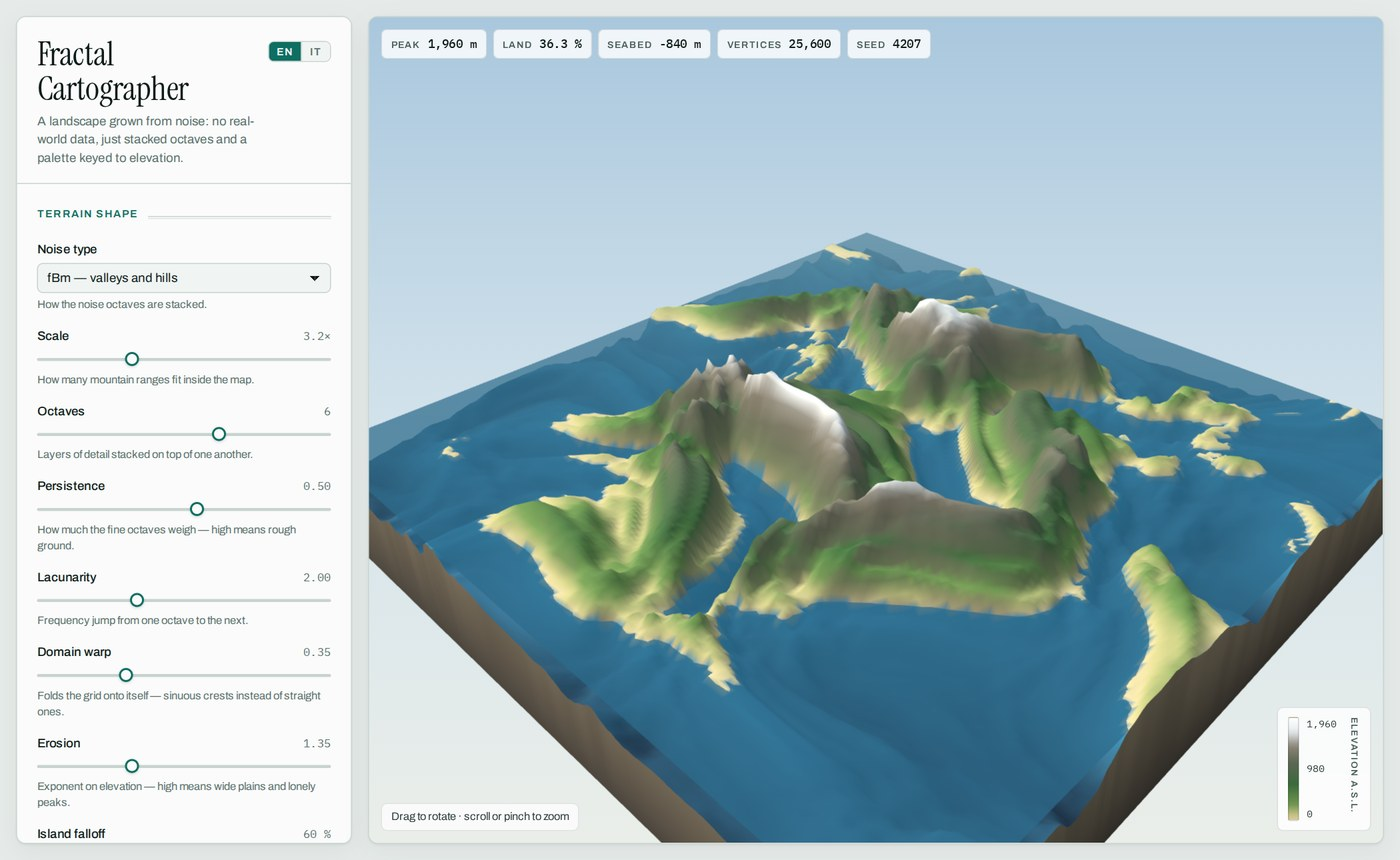
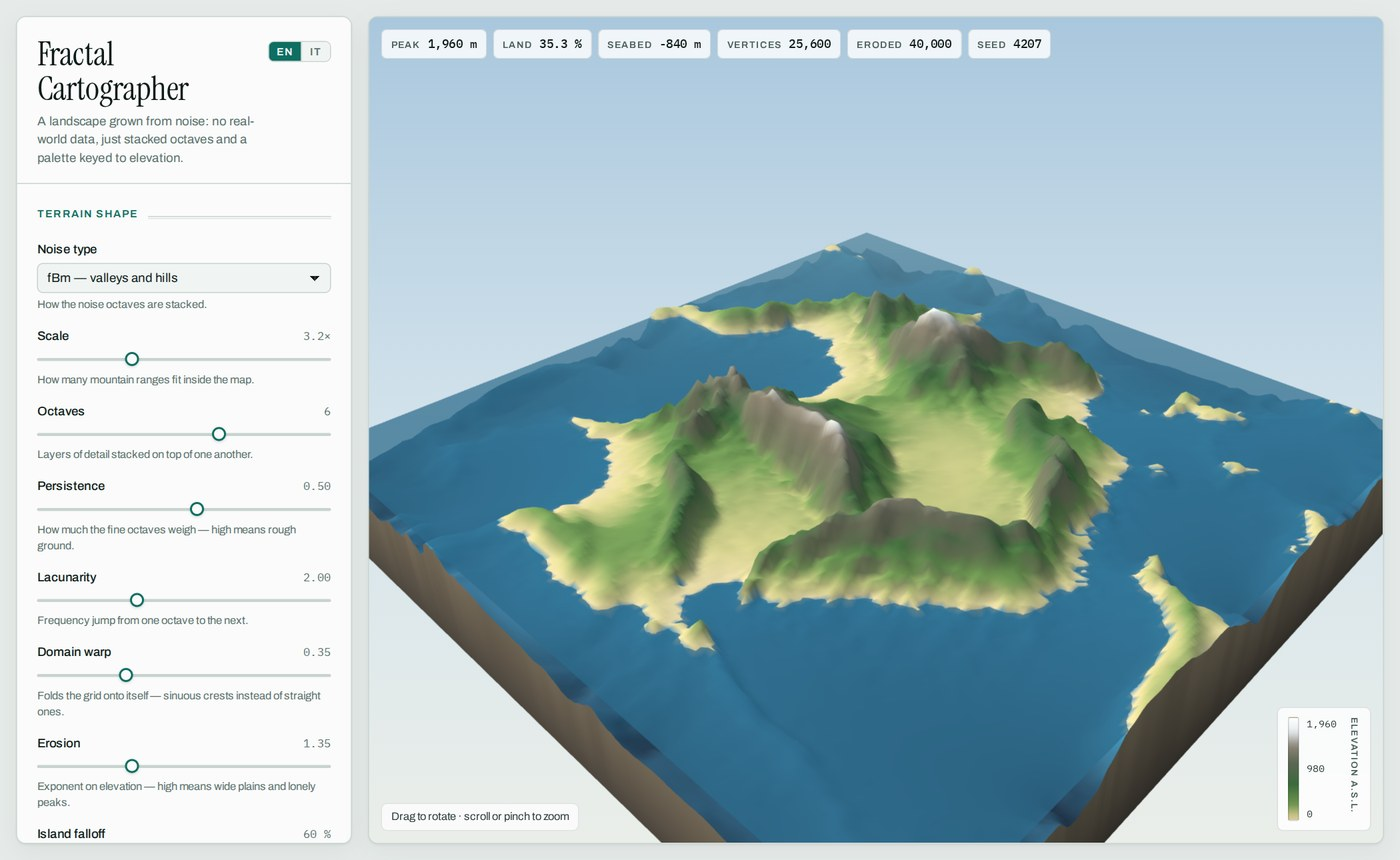
Add hydraulic erosion: droplet simulation with live progress and undo

diff --git a/index.html b/index.html
@@ -168,6 +168,12 @@ button:focus-visible{ outline:2px solid var(--accent); outline-offset:1px; }
 button.primary{ background:var(--accent); border-color:var(--accent); color:var(--on-accent); }
 button.primary:hover{ filter:brightness(1.08); }
 .btn-row{ display:grid; grid-template-columns:1fr 1fr; gap:8px; margin-top:16px; }
+button:disabled{ opacity:.55; cursor:default; }
+button:disabled:hover{ border-color:var(--edge); color:var(--ink); filter:none; }
+.progress{
+  height:3px; border-radius:2px; background:var(--edge); overflow:hidden; margin-top:10px;
+}
+.progress-fill{ height:100%; width:0%; background:var(--accent); }
 
 .colophon{
   margin-top:auto; padding:16px 20px; border-top:1px solid var(--edge);
@@ -280,8 +286,12 @@ button.primary:hover{ filter:brightness(1.08); }
       hintBar: "Drag to rotate · scroll or pinch to zoom",
       legendCap: "elevation a.s.l.",
       fallback: "The 3D engine could not be loaded. Reload the page to try again.",
-      groups: { shape: "Terrain shape", water: "Elevation and water", render: "Rendering", seed: "Seed" },
-      chips: { peak: "Peak", land: "Land", seabed: "Seabed", vertices: "Vertices", seed: "Seed" },
+      groups: { shape: "Terrain shape", water: "Elevation and water", erosion: "Hydraulic erosion",
+                render: "Rendering", seed: "Seed" },
+      chips: { peak: "Peak", land: "Land", seabed: "Seabed", vertices: "Vertices", seed: "Seed",
+               eroded: "Eroded" },
+      erode: "Erode", eroding: "Eroding…", restore: "Undo erosion",
+      erodeHint: "Rain falls, carries sediment downhill and drops it where the slope eases. Run it again to carve deeper; changing any terrain parameter starts from bare noise.",
       seedAria: "Generator seed",
       seedHint: "The same number rebuilds the same world, every time.",
       roll: "Roll", newWorld: "New world", reset: "Reset",
@@ -299,6 +309,10 @@ button.primary:hover{ filter:brightness(1.08); }
         altitude: { label: "Total relief", hint: "Drop between the lowest point and the summit." },
         sea: { label: "Sea level", hint: "Where the water stops, as a fraction of total relief." },
         snow: { label: "Snow line", hint: "Where the top band of the palette begins." },
+        droplets: { label: "Droplets", hint: "How many raindrops to simulate — a few seconds per 40,000. Finer grids hold finer channels." },
+        erodeRate: { label: "Erosion rate", hint: "How eagerly a droplet digs into the ground beneath it." },
+        depositRate: { label: "Deposition rate", hint: "How readily it drops its load where the slope eases." },
+        inertia: { label: "Inertia", hint: "How much a droplet keeps its heading — high values meander, low ones follow the steepest line." },
         palette: { label: "Palette" },
         res: { label: "Grid resolution",
           options: ["96 × 96 — light", "128 × 128", "160 × 160 — recommended", "200 × 200", "256 × 256 — heavy"] },
@@ -314,8 +328,12 @@ button.primary:hover{ filter:brightness(1.08); }
       hintBar: "Trascina per ruotare · rotella o pizzico per lo zoom",
       legendCap: "quota s.l.m.",
       fallback: "Non è stato possibile caricare il motore 3D. Ricarica la pagina per riprovare.",
-      groups: { shape: "Forma del rilievo", water: "Quote e acqua", render: "Resa", seed: "Seme" },
-      chips: { peak: "Vetta", land: "Emerso", seabed: "Fondale", vertices: "Vertici", seed: "Seme" },
+      groups: { shape: "Forma del rilievo", water: "Quote e acqua", erosion: "Erosione idraulica",
+                render: "Resa", seed: "Seme" },
+      chips: { peak: "Vetta", land: "Emerso", seabed: "Fondale", vertices: "Vertici", seed: "Seme",
+               eroded: "Eroso" },
+      erode: "Erodi", eroding: "Erosione…", restore: "Annulla erosione",
+      erodeHint: "La pioggia cade, trascina sedimento a valle e lo deposita dove la pendenza cala. Premi di nuovo per scavare più a fondo; toccare un parametro del rilievo riparte dal rumore puro.",
       seedAria: "Seme del generatore",
       seedHint: "Lo stesso numero ricostruisce lo stesso mondo, sempre.",
       roll: "Sorteggia", newWorld: "Nuovo mondo", reset: "Ripristina",
@@ -333,6 +351,10 @@ button.primary:hover{ filter:brightness(1.08); }
         altitude: { label: "Rilievo totale", hint: "Dislivello fra il punto più basso e la vetta." },
         sea: { label: "Livello del mare", hint: "Quota a cui si ferma l'acqua, in frazione del rilievo." },
         snow: { label: "Linea delle nevi", hint: "Dove comincia la fascia più alta della tavolozza." },
+        droplets: { label: "Gocce", hint: "Quante gocce di pioggia simulare: qualche secondo ogni 40.000. Griglie più fini tengono solchi più fini." },
+        erodeRate: { label: "Velocità di erosione", hint: "Con quanta foga una goccia scava il terreno sotto di sé." },
+        depositRate: { label: "Velocità di deposito", hint: "Con quanta facilità molla il carico dove la pendenza cala." },
+        inertia: { label: "Inerzia", hint: "Quanto una goccia mantiene la rotta: valori alti serpeggiano, bassi seguono la massima pendenza." },
         palette: { label: "Tavolozza" },
         res: { label: "Risoluzione della griglia",
           options: ["96 × 96 — leggera", "128 × 128", "160 × 160 — consigliata", "200 × 200", "256 × 256 — pesante"] },
@@ -405,6 +427,10 @@ button.primary:hover{ filter:brightness(1.08); }
     altitude: 2800,
     sea: 0.30,
     snow: 0.72,
+    droplets: 40000,
+    erodeRate: 0.15,
+    depositRate: 0.20,
+    inertia: 0.05,
     palette: "alpino",
     res: 160,
     contours: false,
@@ -489,7 +515,8 @@ button.primary:hover{ filter:brightness(1.08); }
   }
 
   /* ── elevation field ────────────────────────────────── */
-  var field = { n: 0, h: null, emerged: 0 };
+  var field = { n: 0, h: null, base: null, emerged: 0, eroded: 0 };
+  var erosionToken = 0;
 
   function computeField() {
     var N = state.res;
@@ -535,6 +562,146 @@ button.primary:hover{ filter:brightness(1.08); }
     var span = Math.max(1e-6, hi - lo);
     for (var k = 0; k < h.length; k++) h[k] = (h[k] - lo) / span;
     field.n = N; field.h = h;
+    field.base = h.slice();   // pristine noise, kept so erosion can be undone
+    field.eroded = 0;
+    erosionToken++;           // any run in flight is now working on a dead array
+  }
+
+  /* ── hydraulic erosion ──────────────────────────────────────
+     Particle model: a droplet walks downhill carrying sediment, digging where
+     it accelerates and dropping its load where the slope eases. No river is
+     ever drawn — the drainage network is what a few hundred thousand of these
+     leave behind. */
+
+  function makeBrush(radius, N) {
+    var off = [], wt = [], sum = 0, dx, dy, d, w;
+    for (dy = -radius; dy <= radius; dy++) {
+      for (dx = -radius; dx <= radius; dx++) {
+        d = Math.sqrt(dx * dx + dy * dy);
+        if (d > radius) continue;
+        w = radius > 0 ? 1 - d / radius : 1;
+        off.push(dy * N + dx); wt.push(w); sum += w;
+      }
+    }
+    for (var i = 0; i < wt.length; i++) wt[i] /= sum;    // weights total 1
+    // droplets stay `margin` cells from the edge, so the brush never runs off the grid
+    return { off: Int32Array.from(off), w: Float32Array.from(wt), margin: radius + 1 };
+  }
+
+  var _h = 0, _gx = 0, _gy = 0;
+  function sampleField(h, N, x, y) {
+    var xi = x | 0, yi = y | 0;
+    if (xi > N - 2) xi = N - 2; if (xi < 0) xi = 0;
+    if (yi > N - 2) yi = N - 2; if (yi < 0) yi = 0;
+    var u = x - xi, v = y - yi, i00 = yi * N + xi;
+    var h00 = h[i00], h10 = h[i00 + 1], h01 = h[i00 + N], h11 = h[i00 + N + 1];
+    _gx = (h10 - h00) * (1 - v) + (h11 - h01) * v;
+    _gy = (h01 - h00) * (1 - u) + (h11 - h10) * u;
+    _h = h00 * (1 - u) * (1 - v) + h10 * u * (1 - v) + h01 * (1 - u) * v + h11 * u * v;
+  }
+
+  function droplet(h, N, P, brush, rnd) {
+    var m = brush.margin, span = N - 1 - 2 * m;
+    var posX = m + rnd() * span, posY = m + rnd() * span;
+    var dirX = 0, dirY = 0, speed = 1, water = 1, sediment = 0;
+    for (var life = 0; life < P.lifetime; life++) {
+      var nodeX = posX | 0, nodeY = posY | 0;
+      var offX = posX - nodeX, offY = posY - nodeY;
+      sampleField(h, N, posX, posY);
+      var hOld = _h, gx = _gx, gy = _gy;
+
+      dirX = dirX * P.inertia - gx * (1 - P.inertia);
+      dirY = dirY * P.inertia - gy * (1 - P.inertia);
+      var len = Math.sqrt(dirX * dirX + dirY * dirY);
+      if (len < 1e-8) break;                       // sitting in a flat pit
+      dirX /= len; dirY /= len;
+      posX += dirX; posY += dirY;
+      if (posX < m || posX > N - 1 - m || posY < m || posY > N - 1 - m) break;
+
+      sampleField(h, N, posX, posY);
+      var dh = _h - hOld;
+      var capacity = Math.max(-dh * speed * water * P.capacity, P.minSlope);
+
+      if (sediment > capacity || dh > 0) {
+        // slowing down, or climbing: drop the excess on the four nodes it left
+        var drop = (dh > 0) ? Math.min(dh, sediment) : (sediment - capacity) * P.deposit;
+        sediment -= drop;
+        var i0 = nodeY * N + nodeX;
+        h[i0]         += drop * (1 - offX) * (1 - offY);
+        h[i0 + 1]     += drop * offX * (1 - offY);
+        h[i0 + N]     += drop * (1 - offX) * offY;
+        h[i0 + N + 1] += drop * offX * offY;
+      } else {
+        // room to carry more: dig, spread over the brush so no single spike forms
+        var dig = Math.min((capacity - sediment) * P.erode, -dh);
+        var base = nodeY * N + nodeX, boff = brush.off, bw = brush.w;
+        for (var b = 0; b < boff.length; b++) {
+          var bi = base + boff[b];
+          var take = dig * bw[b];
+          if (take > h[bi]) take = h[bi];          // bedrock at the original low point
+          h[bi] -= take;
+          sediment += take;
+        }
+      }
+      speed = Math.sqrt(Math.max(0, speed * speed + dh * P.gravity));
+      water *= (1 - P.evaporate);
+    }
+  }
+
+  var eroding = false;
+
+  function runErosion() {
+    var total = state.droplets | 0;
+    if (eroding || !field.h || total <= 0) return;
+
+    var myToken = erosionToken;
+    var P_RADIUS = 3;
+    var h = field.h, N = field.n;
+    var brush = makeBrush(P_RADIUS, N);
+    var rnd = mulberry32((state.seed ^ 0x9E3779B9) >>> 0);
+    var P = {
+      inertia: state.inertia, capacity: 4, minSlope: 0.003,
+      deposit: state.depositRate, erode: state.erodeRate,
+      gravity: 4, evaporate: 0.012, lifetime: 30
+    };
+
+    var btn = document.getElementById("btn-erode");
+    var bar = document.getElementById("erode-progress");
+    var fill = document.getElementById("erode-fill");
+    eroding = true;
+    btn.disabled = true;
+    btn.textContent = L.eroding;
+    bar.hidden = false;
+    fill.style.width = "0%";
+
+    var done = 0, chunks = 0;
+
+    function finish(completed) {
+      eroding = false;
+      btn.disabled = false;
+      btn.textContent = L.erode;
+      bar.hidden = true;
+      if (completed) { field.eroded += total; needsBuild = true; }
+    }
+
+    (function chunk() {
+      if (myToken !== erosionToken) { finish(false); return; }   // terrain was regenerated
+      var t0 = performance.now();
+      while (done < total && performance.now() - t0 < 12) {
+        for (var i = 0; i < 256 && done < total; i++) { droplet(h, N, P, brush, rnd); done++; }
+      }
+      fill.style.width = (done / total * 100).toFixed(1) + "%";
+      if (++chunks % 6 === 0) needsBuild = true;                 // watch the valleys appear
+      if (done < total) requestAnimationFrame(chunk);
+      else finish(true);
+    })();
+  }
+
+  function restoreTerrain() {
+    if (!field.base || eroding) return;
+    field.h.set(field.base);
+    field.eroded = 0;
+    needsBuild = true;
   }
 
   /* ── three.js ───────────────────────────────────────── */
@@ -821,6 +988,7 @@ button.primary:hover{ filter:brightness(1.08); }
       [L.chips.vertices, nf.format(field.n * field.n)],
       [L.chips.seed, String(state.seed)]
     ];
+    if (field.eroded > 0) chips.splice(4, 0, [L.chips.eroded, nf.format(field.eroded)]);
     document.getElementById("chips").innerHTML = chips.map(function (c) {
       return '<div class="chip"><span class="k">' + c[0] + '</span><span class="v">' + c[1] + "</span></div>";
     }).join("");
@@ -878,6 +1046,12 @@ button.primary:hover{ filter:brightness(1.08); }
       { k: "sea", type: "range", min: 0, max: 0.75, step: 0.005, fmt: function (v) { return Math.round(v * 100) + " %"; } },
       { k: "snow", type: "range", min: 0.3, max: 1, step: 0.01, fmt: function (v) { return Math.round(v * 100) + " %"; } }
     ] },
+    { title: "erosion", items: [
+      { k: "droplets", type: "range", min: 10000, max: 200000, step: 10000, fmt: function (v) { return nf.format(v); } },
+      { k: "erodeRate", type: "range", min: 0.05, max: 0.8, step: 0.01, fmt: function (v) { return v.toFixed(2); } },
+      { k: "depositRate", type: "range", min: 0.05, max: 0.8, step: 0.01, fmt: function (v) { return v.toFixed(2); } },
+      { k: "inertia", type: "range", min: 0, max: 0.6, step: 0.01, fmt: function (v) { return v.toFixed(2); } }
+    ], custom: erosionControls },
     { title: "render", items: [
       { k: "palette", type: "select", values: Object.keys(PALETTES), labels: "palettes" },
       { k: "res", type: "select", values: ["96", "128", "160", "200", "256"], parse: Number },
@@ -885,6 +1059,13 @@ button.primary:hover{ filter:brightness(1.08); }
       { k: "spin", type: "check" }
     ] }
   ];
+
+  function erosionControls() {
+    return '<div class="btn-row"><button type="button" class="primary" id="btn-erode">' + L.erode + "</button>" +
+      '<button type="button" id="btn-restore">' + L.restore + "</button></div>" +
+      '<div class="progress" id="erode-progress" hidden><div class="progress-fill" id="erode-fill"></div></div>' +
+      '<div class="hint" style="margin-top:10px">' + L.erodeHint + "</div>";
+  }
 
   function optionLabel(it, value, index) {
     if (it.labels) return L[it.labels][value];
@@ -916,6 +1097,7 @@ button.primary:hover{ filter:brightness(1.08); }
             (state[it.k] ? " checked" : "") + '><span>' + s.label + "</span></label>";
         }
       });
+      if (g.custom) html += g.custom();
       html += "</section>";
     });
 
@@ -950,6 +1132,8 @@ button.primary:hover{ filter:brightness(1.08); }
       var v = parseInt(this.value, 10);
       if (!isNaN(v)) { state.seed = v; schedule(true); }
     });
+    document.getElementById("btn-erode").addEventListener("click", runErosion);
+    document.getElementById("btn-restore").addEventListener("click", restoreTerrain);
     document.getElementById("btn-dice").addEventListener("click", newSeed);
     document.getElementById("btn-new").addEventListener("click", newSeed);
     document.getElementById("btn-reset").addEventListener("click", function () {

diff --git a/README.md b/README.md
@@ -21,12 +21,15 @@ double-click it.
 - **A real sea level**, with a seabed ramp below it and a translucent water plane on top.
 - **Contour lines** every 200 m, drawn at constant apparent width by dividing by the local gradient.
 - **A solid block**, not a floating sheet: the terrain sits on a plinth with banded strata down the sides.
+- **Hydraulic erosion** — tens of thousands of simulated raindrops carve rills into the slopes,
+  sharpen the ridgelines and lay sediment fans along the coast. Runs on demand, with a progress bar,
+  and can be undone.
 - **Deterministic seeds** — the same number always rebuilds the same world.
 - **Bilingual UI** — English and Italian, switchable from the header, remembered between visits.
 
 ## How it works
 
-The whole thing is one 1,050-line HTML file — roughly 780 lines of plain JavaScript, 225 of CSS, and
+The whole thing is one 1,239-line HTML file — roughly 960 lines of plain JavaScript, 232 of CSS, and
 [three.js](https://threejs.org/) from a CDN for rendering.
 
 1. **Noise.** A 2D simplex noise function is built from a permutation table shuffled by a
@@ -41,7 +44,16 @@ The whole thing is one 1,050-line HTML file — roughly 780 lines of plain JavaS
 5. **Colouring.** Above sea level the normalised height indexes a colour ramp, remapped so the top
    band starts exactly at the chosen snow line; below it, a separate seabed ramp. The local gradient
    blends in rock on steep slopes and darkens the contour bands.
-6. **Mesh.** Positions and vertex colours are written into pre-allocated typed arrays and reuploaded
+6. **Erosion** (optional, on demand). A droplet is dropped on a random cell carrying direction,
+   speed, water and sediment. At each step it reads the interpolated height and gradient, turns
+   downhill — blending the new direction with its old one, which is what makes valleys meander
+   instead of zig-zag — and moves one cell. Its carrying capacity follows the slope it just
+   descended: below capacity it digs, spreading the bite over a weighted disc so no single-cell
+   spike forms; above it, or when climbing, it drops the excess. Nothing in the code draws a river —
+   the drainage pattern is what tens of thousands of these leave behind. The work is sliced into
+   12 ms slices across animation frames, so the page stays responsive and the terrain visibly
+   changes while it runs.
+7. **Mesh.** Positions and vertex colours are written into pre-allocated typed arrays and reuploaded
    in place, so dragging a slider does not reallocate a single buffer. Colours are converted from
    sRGB to linear because the renderer works in linear space.
 
@@ -62,6 +74,10 @@ The whole thing is one 1,050-line HTML file — roughly 780 lines of plain JavaS
 | Snow line | Where the top band of the palette begins |
 | Palette | Colour ramps, sky, sun and water for the whole scene |
 | Grid resolution | 96² to 256² vertices — raise it for detail, lower it for speed |
+| Droplets | How many raindrops the erosion pass simulates — a few seconds per 40,000 |
+| Erosion rate | How eagerly a droplet digs into the ground beneath it |
+| Deposition rate | How readily it drops its load where the slope eases |
+| Inertia | How much a droplet keeps its heading; high values meander, low ones take the steepest line |
 
 ## Running it
 
@@ -84,8 +100,8 @@ one finger orbits, two fingers pinch to zoom.
 
 ## What's next
 
-See [ROADMAP.md](ROADMAP.md). The big one is hydraulic erosion — simulated rainfall carving V-shaped
-valleys and depositing sediment downstream.
+See [ROADMAP.md](ROADMAP.md). Next up: thermal erosion for scree slopes, rivers drawn from droplet
+flow accumulation, and parameter permalinks so a landscape can be shared as a URL.
 
 ## Licence
 

diff --git a/ROADMAP.md b/ROADMAP.md
@@ -3,22 +3,24 @@
 Ideas in rough order of how much they would change the result. Nothing here is committed — it is a
 list of things worth building, not a schedule.
 
-## Hydraulic erosion
+## Thermal erosion
 
-The single biggest gain in realism. Drop droplets on the heightmap, let each one carry sediment
-downhill, erode where it accelerates and deposit where it slows. Fractal noise gives mountains that
-are statistically plausible but hydrologically wrong: no drainage network, no V-shaped valleys, no
-alluvial fans. A few hundred thousand droplets fix all three.
-
-- Particle-based erosion pass after the noise stage, before normalisation.
-- Run it in a Web Worker so the UI keeps responding; show a progress bar.
-- Expose droplet count, inertia, capacity and evaporation as an advanced group.
+Four lines next to the hydraulic pass, and a different kind of realism: any slope steeper than a
+talus angle sheds material to its lower neighbours. Rounds off the spires the noise leaves behind
+and piles scree at the foot of cliffs. Cheap enough to run to equilibrium.
 
 ## Rivers and lakes
 
-Falls out of erosion almost for free: accumulate droplet paths into a flow map, then draw anything
+Nearly free now that droplets exist: accumulate their paths into a flow map, then draw anything
 above a flow threshold as water. Lakes need basin filling (priority flood) to find closed
 depressions.
+
+## Faster erosion
+
+A droplet costs about 50 µs, so 40,000 of them take a couple of seconds. Worth revisiting if the
+counts grow: a Web Worker would free the main thread (at the cost of a second file — workers do not
+load from a page opened by double-click), and the grid-based pipe model parallelises onto the GPU
+in a way the particle model does not.
 
 ## Parameter permalinks
 
